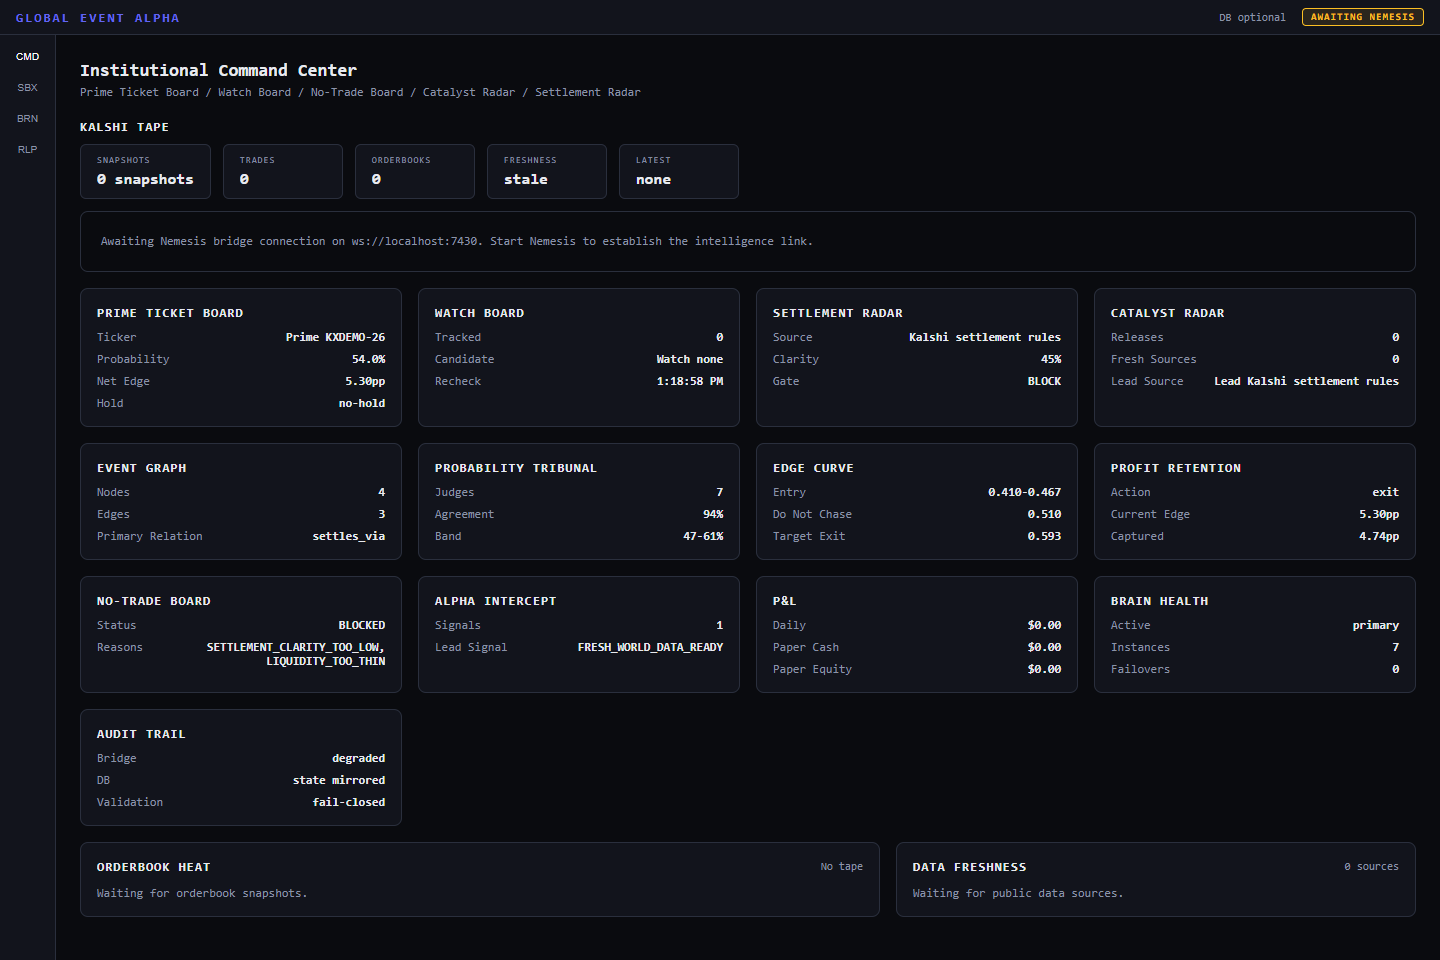
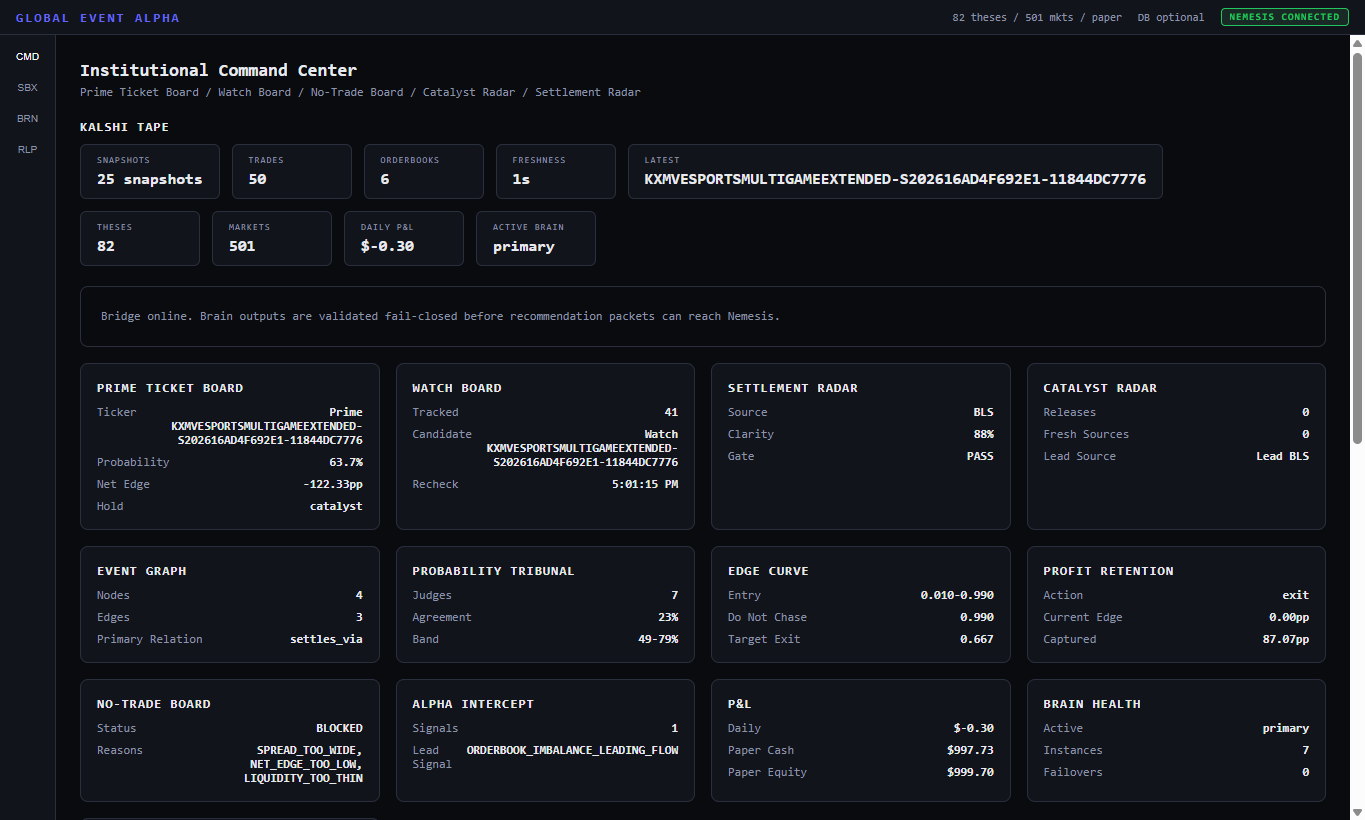
Add GitHub README and populated UI screenshots

diff --git a/README.md b/README.md
@@ -1,51 +1,117 @@
 # NEMESIS
 
-**Kalshi-native desktop trading command center.**
+NEMESIS is a Kalshi-native desktop trading command center with a companion Global Event Alpha brain. It is built for thesis discovery, paper execution, guardrail-first operations, GEA bridge recommendations, and ProfitOS paper auto-close research.
 
-Thesis-driven edge discovery, category monitor pods, profit protection guardrails, and safety-first execution — demo + dry-run by default.
+The app defaults to demo and dry-run behavior. Live trading requires explicit operator unlocks and is not enabled by the ProfitOS auto-close layer.
+
+## Current UI
+
+### NEMESIS Edge Theater
+
+Populated ticket discovery with a live GEA recommendation, tradeability filters, guardrails, and risk cockpit.
+
+![NEMESIS Edge Theater](docs/screenshots/nemesis-edge-theater.png)
+
+### NEMESIS Paper Command Desk
+
+Populated paper desk showing an open paper position, trade blotter, auto-close status, account metrics, and guardrail/risk panels.
+
+![NEMESIS Paper Command Desk](docs/screenshots/nemesis-paper-desk.png)
+
+### Global Event Alpha Command Center
+
+GEA connected to NEMESIS with mirrored thesis/market state, paper P&L, brain health, ticket boards, retention logic, and fail-closed bridge status.
+
+![Global Event Alpha Command Center](docs/screenshots/global-event-alpha-command-center.png)
+
+## What It Does
+
+- Discovers and ranks Kalshi/event-market trade theses.
+- Ingests Global Event Alpha recommendation and exit packets over a local WebSocket bridge.
+- Scores opportunities by net edge, probability gap, fillable liquidity, freshness, confidence, settlement clarity, bridge latency, spread, and slippage.
+- Executes paper buys and paper closes through a dry-run fill model.
+- Tracks peak paper P&L, peak edge, giveback, tick count, and GEA exit confidence per open position.
+- Supports paper-only ProfitOS auto-trim/auto-close behind an operator setting.
+- Reports baseline vs upgraded paper strategy performance with a target of 80% better risk-adjusted net P&L per dollar risked.
+- Keeps guardrails, kill switch, API health, readiness gates, and live-order locks visible.
+
+## ProfitOS Auto-Close
+
+ProfitOS is paper-only in this version. It does not place live sell orders.
+
+Default auto-close behavior:
+
+- Off by default and visible in Settings.
+- Minimum age: 30 seconds.
+- Minimum ticks: 3.
+- First trim: 50% of contracts after +12% peak P&L and 25% giveback.
+- Final close: remaining contracts after +18% peak P&L and 35% giveback.
+- Emergency close: edge gone, stale signal, bad liquidity, or high-confidence GEA exit.
+- Decision reasons are pushed into the Paper Desk, trade blotter, notifications, and Profit Station attribution.
 
 ## Quickstart
 
-Requires Node.js 18+ and pnpm.
+Requires Node.js 18+ and npm.
 
 ```bash
-cd nemesis
-pnpm install
-pnpm dev
+npm install
+npm run dev
 ```
+
+`npm run dev` launches the NEMESIS Electron desktop app. NEMESIS can auto-spawn Global Event Alpha, or GEA can be run separately from `apps/global-event-alpha`.
 
 ## Scripts
 
 | Command | Description |
-|---------|-------------|
-| `pnpm dev` | Launch Electron app in development |
-| `pnpm test` | Run unit tests |
-| `pnpm build` | Build all packages |
-| `pnpm package` | Build Windows installer (unsigned) |
-
-## Safety defaults
-
-- Kalshi **demo** mode ON
-- **Dry-run** ON — no real orders until all 8 gates pass
-- Kill-switch: `Ctrl+Shift+K`
-- Live trading requires deliberate multi-step unlock
+| --- | --- |
+| `npm run dev` | Launch NEMESIS desktop in development |
+| `npm test -- --run` | Run the Vitest suite |
+| `npm run typecheck --workspaces --if-present` | Typecheck all workspaces |
+| `npm run build -w @nemesis/desktop` | Build NEMESIS desktop |
+| `npm run build -w @nemesis/global-event-alpha` | Build Global Event Alpha |
+| `npm run test:e2e -w @nemesis/desktop` | Run Electron E2E smoke and bridge tests |
+| `npm run package -w @nemesis/desktop` | Build the Windows installer |
 
 ## Architecture
 
+```text
+apps/desktop/              NEMESIS Electron shell and bridge server
+apps/global-event-alpha/   Companion GEA brain desktop app
+packages/bridge-contracts/ Fail-closed bridge schemas and validation
+packages/core/             Kalshi client, fees, thesis engine, guardrails, paper types
+packages/execution/        Paper execution, auto-close engine, benchmarking, live adapter
+packages/connectors/       Feed hub, Kalshi stream/tape, public data mesh
+packages/pods/             Market signal pods and edge scanner
+packages/ui/               Shared React panels and cockpit components
+packages/charts/           Profit Station chart utilities
+packages/capital/          Allocator, risk controls, strategy quarantine
+packages/journal/          Session journal
+packages/brain-core/       Institutional intelligence and retention engines
+packages/simulation-core/  Replay, ticket autopsy, model tournament
 ```
-apps/desktop/     Electron shell
-packages/core/    Kalshi client, fees, thesis engine, guardrails
-packages/pods/    Monitor pods (Flow Hunter, Weather Wing, etc.)
-packages/ui/      React components
-packages/connectors/  Connector registry
-packages/journal/ Session journal
-packages/execution/   Dry-run + signing
-packages/capital/     Allocator + quarantine
-packages/charts/      Profit Station graphs
+
+## Safety Defaults
+
+- Demo mode on.
+- Dry-run on.
+- Live trading locked.
+- Paper auto-close off until explicitly enabled.
+- Kill switch: `Ctrl+Shift+K`.
+- GEA bridge packets validate fail-closed before becoming NEMESIS tickets.
+- Live auto-close is intentionally out of scope for this version.
+
+## Verification
+
+The current implementation was verified with:
+
+```bash
+npm test -- --run
+npm run typecheck --workspaces --if-present
+npm run build -w @nemesis/desktop
+npm run build -w @nemesis/global-event-alpha
+npm run test:e2e -w @nemesis/desktop
 ```
 
-## License
+## Disclaimer
 
-MIT — see [LICENSE](LICENSE) and [DISCLAIMER.md](DISCLAIMER.md).
-
-**Not financial advice.** Trading carries risk. Use demo + dry-run first.
+NEMESIS is not financial advice. Trading carries risk. Use demo and paper workflows first, validate behavior locally, and do not enable live trading without independent review.
